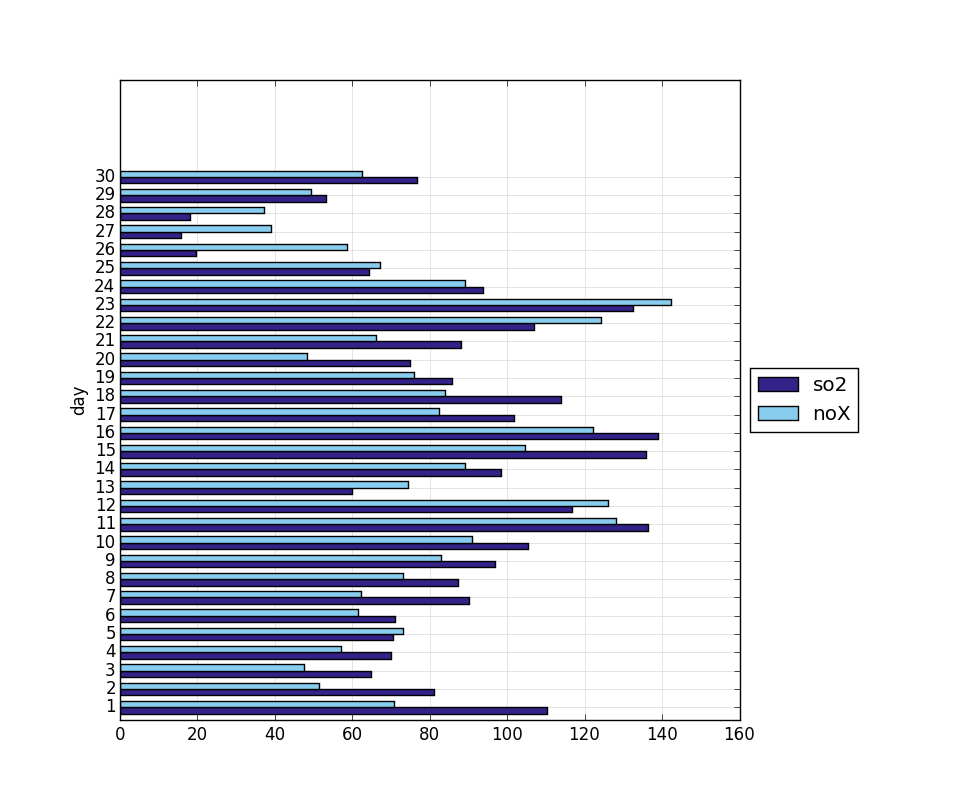
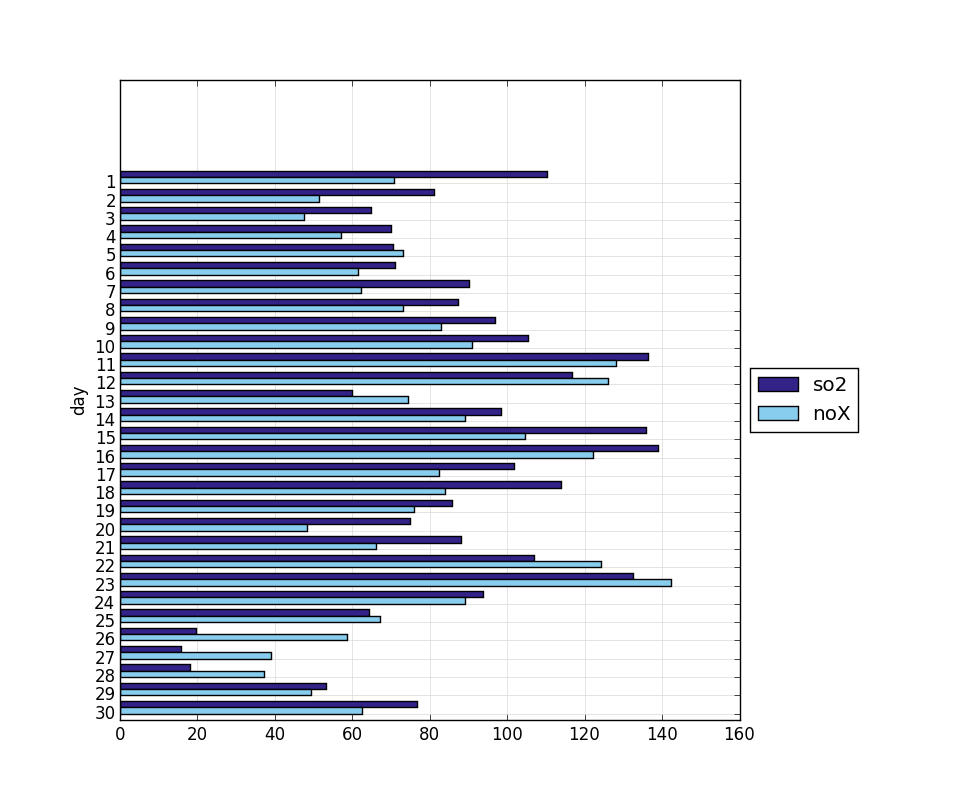
Fix bar chart data order. Closes #4.

Changed region(s): [[0.0907, 0.1875, 0.756, 0.9062]]

diff --git a/agatecharts/charts/bars.py b/agatecharts/charts/bars.py
@@ -25,10 +25,14 @@ class Bars(Chart):
             not isinstance(label_column.data_type, agate.Date):
             raise ValueError('Only Text, Number and Date data are supported for bar chart labels.')
 
+        series_count = len(self._value_column_names)
         positions = range(len(label_column))
         colors = Qualitative()
         legend_bars = []
         bar_height = 0.35
+
+        # Display first value at the top of the chart.
+        positions.reverse()
 
         for i, value_column_name in enumerate(self._value_column_names):
             value_column = table.columns[value_column_name]
@@ -39,7 +43,7 @@ class Bars(Chart):
             series_positions = []
 
             for j in positions:
-                series_positions.append(positions[j] + (i + 1) * bar_height)
+                series_positions.append(j + (series_count - i) * bar_height)
 
             plot_bars = axes.barh(
                 series_positions,
